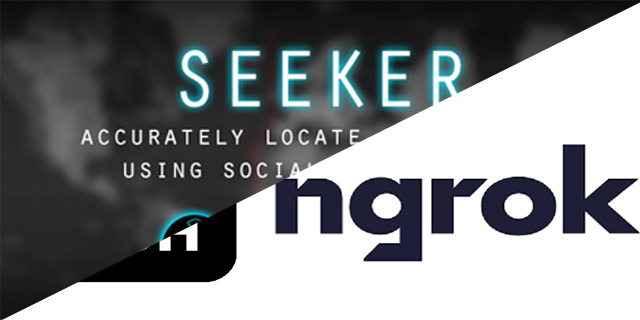
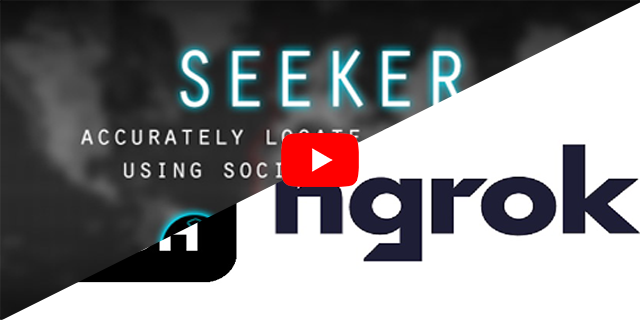
update preview image & README

Changed region(s): [[0.4375, 0.4062, 0.5625, 0.5938]]

diff --git a/Get Accurate Location As Well Device Details Accurately/README.md b/Get Accurate Location As Well Device Details Accurately/README.md
@@ -5,20 +5,20 @@
 2. Location of target device 
 
 ## Required Tools / Packages
-1. A tunnel service. We'll use **ngrok**
-2. seeker
+1. A tunnel service. We'll use [**ngrok**](https://ngrok.com/)
+2. [seeker](https://github.com/thewhiteh4t/seeker)
 3. python / python3
 
 ## Install
 ### ngrok
-* Create an account in [ngrok](https://ngrok.com). You'll see the following dashboard.
-![ngrok](ngrok_dashboard.gif)
+* Create an account in [ngrok](https://ngrok.com). You'll see the following dashboard.<br /><br />
+![ngrok](ngrok_dashboard.gif)<br /><br />
 * Then download ngrok file. Unzip it with following command
 ```
     unzip ngrok.zip
 ```
 ![ngrok](ngrok_unzip.gif)
-* Now **ngrok reasy to use**, but we'll add authtoken since it'll grant us access to more features and longer session times.
+* Now **ngrok ready to use**, but we'll add authtoken since it'll grant us access to more features and longer session times.
 
 * Now go to the folder you downloaded and open a terminal and execute the following command
 ```
@@ -42,10 +42,9 @@ apt install python3 python3-pip php
 pip3 install requests
 ```
 
-* Note : **Seeker** give us several template. So don't forget to check them.
-
 ## Implement
 
 <a href="http://www.youtube.com/watch?feature=player_embedded&v=Bs2y2LjOkqo" target="_blank"><img src="http://img.youtube.com/vi/Bs2y2LjOkqo/0.jpg" 
 alt="video tutorial" width="240" height="180" border="10" /></a>
 
+* Note : **Seeker** give us several template. So don't forget to check them.
